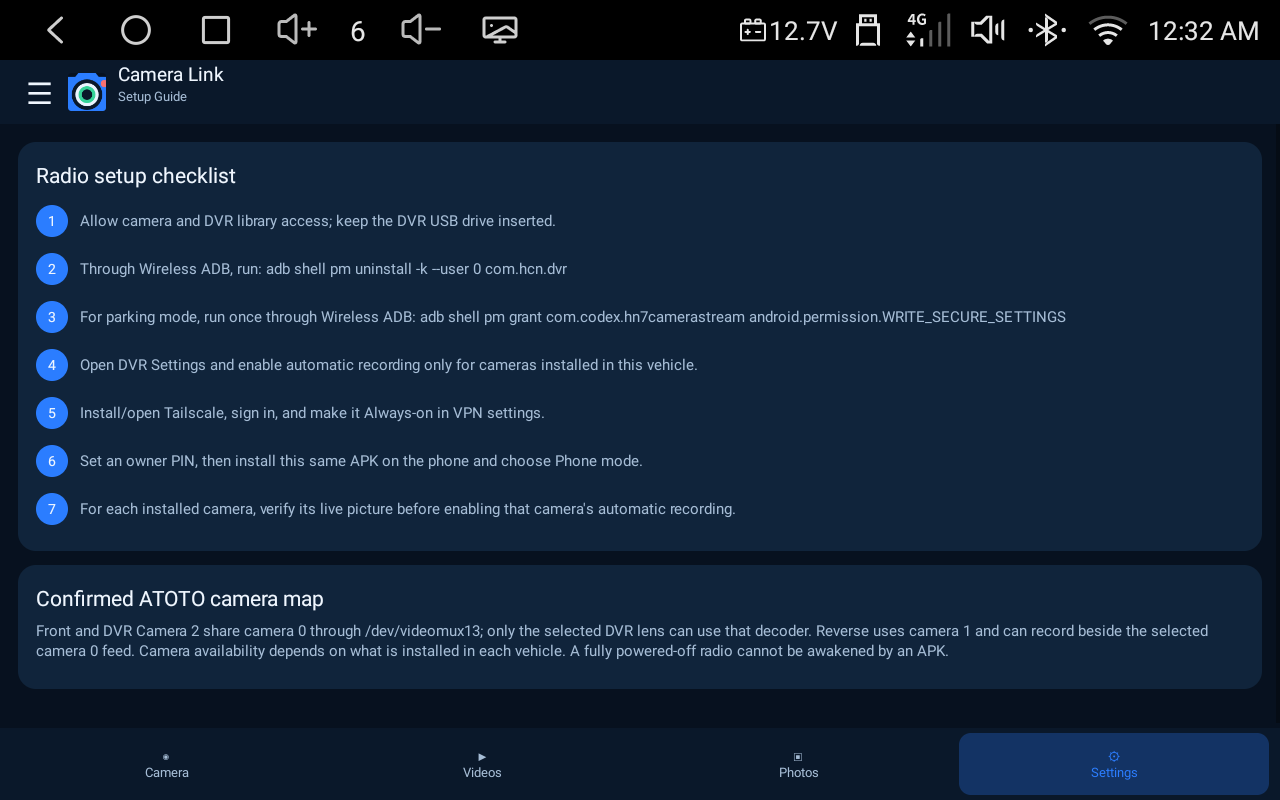
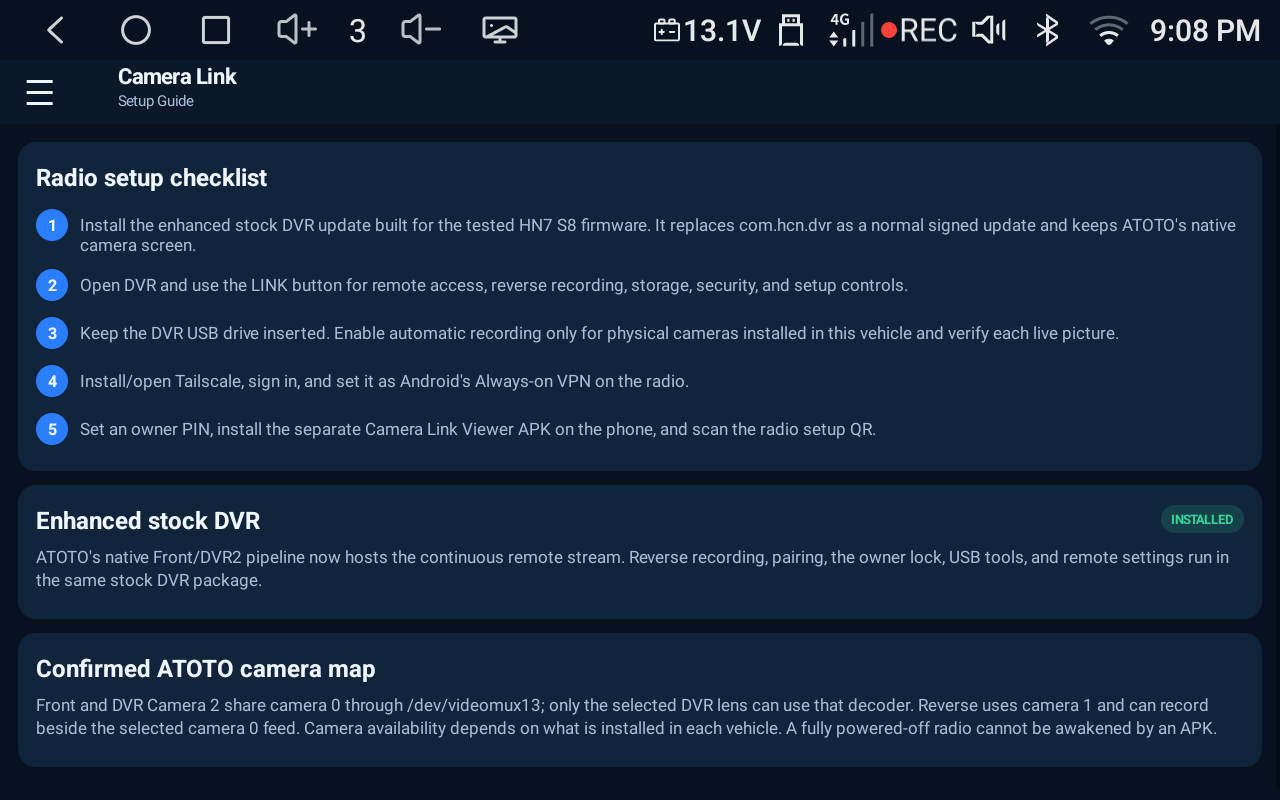
Add fresh S8 V4 and phone camera screenshots with GPS privacy masks

diff --git a/docs/screenshots/README.md b/docs/screenshots/README.md
@@ -1,0 +1,24 @@
+# Screenshot notes
+
+These screenshots show version 2.0.6, captured on October 13, 2026. Radio images come from the tested ATOTO S8 V4. The phone viewer runs in an Android test emulator and displays the radio's real Front and Reverse camera streams.
+
+## Published assets
+
+- `radio-front-live-v2.0.6.png`: factory DVR Front preview.
+- `radio-split-top-bottom-v2.0.6.png`: Front and Reverse in equal top/bottom panes.
+- `radio-split-left-right-v2.0.6.png`: Front and Reverse in equal left/right panes.
+- `phone-dual-live-v2.0.6.png`: the Android viewer's portrait dual-camera screen.
+- `radio-dvr-settings.png`: factory recording, microphone, emergency-lock, sensitivity, and USB controls.
+- `radio-setup-guide.png`: installation and connection checklist.
+
+Original unredacted captures remain outside the published source in the ignored private working directory. No connection credentials or setup QR codes are included.
+
+## Privacy edits
+
+The built-in image editing tool applied opaque location masks to the Front, top/bottom split, and phone screenshots. The left/right, factory settings, and setup captures contained no visible location text and are unedited. Edited images can be resized by the image tool.
+
+The redaction prompt used for each edited screenshot was:
+
+> Apply only privacy redaction. Cover the GPS/location and measurement watermark with solid opaque dark rectangles. For radio captures, keep the existing REVERSE, SPLIT, and LINK buttons visible. For the phone capture, cover location text in both the FRONT DVR and REVERSE images. Preserve the UI layout, labels, recording indicator, and camera content. Do not add promotional graphics or combine screenshots.
+
+Every published image was visually checked for readable coordinates and connection credentials before upload.

diff --git a/README.md b/README.md
@@ -69,13 +69,25 @@ Available inputs depend on the cameras installed in each vehicle. Confirm a real
 
 ## Screenshots
 
+Fresh views from version **2.0.6**, captured on the tested S8 V4 and the Android phone viewer. GPS/location watermark text is covered with solid privacy masks in the published camera images.
+
+**Factory DVR with live Front camera**
+
+![Factory DVR live Front camera with location watermark masked](docs/screenshots/radio-front-live-v2.0.6.png)
+
+| Front + Reverse: top and bottom | Front + Reverse: left and right |
+| --- | --- |
+| ![Radio top and bottom live split with location watermark masked](docs/screenshots/radio-split-top-bottom-v2.0.6.png) | ![Radio left and right live split](docs/screenshots/radio-split-left-right-v2.0.6.png) |
+
+**Android phone/tablet live viewer**
+
+<img src="docs/screenshots/phone-dual-live-v2.0.6.png" alt="Camera Link Viewer showing Front and Reverse live cameras with GPS coordinates masked" width="360">
+
 | Enhanced DVR settings | Radio setup guide |
 | --- | --- |
 | ![Enhanced DVR settings](docs/screenshots/radio-dvr-settings.png) | ![Radio setup guide](docs/screenshots/radio-setup-guide.png) |
 
-![GitHub update controls](docs/screenshots/radio-app-updates.png)
-
-Camera images, private addresses, credentials, GPS coordinates, and personal recordings are excluded from the repository screenshots.
+Camera views are included with the owner's permission. Private connection addresses, credentials, readable GPS coordinates, and personal recording files are excluded. The phone screenshot was captured in an Android test emulator connected to the radio's real camera streams. [Screenshot capture and redaction notes](docs/screenshots/README.md).
 
 ## Tested radio
 
